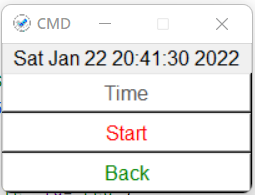
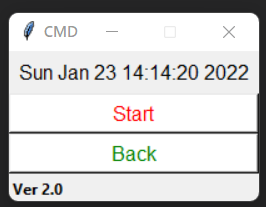
the new version 2.0

diff --git a/main.py b/main.py
@@ -9,16 +9,20 @@ root.resizable(width=False, height=False)
 
 str = "cmd /c date 01/01/2030"
 
+def time_now():
+    t = time.strftime("%d/%m/%Y")
+    f = open('_.date', 'w')
+    f.write(t)
+    f.close()
+
+time_now()
+
+
 
 def start(event):
     os.system(str)
 
 
-def time_now(event):
-    t = time.strftime("%d/%m/%Y")
-    f = open('_.date', 'w')
-    f.write(t)
-    f.close()
 
 
 def back(event):
@@ -33,15 +37,8 @@ label = Label(root,
 
 label.pack()
 
-btn_time = Button(root,
-                  text="Time",
-                  font=25,
-                  width='40',
-                  bg="white", fg="#555")
+label.pack(ipadx=5, ipady=5)
 
-btn_time.bind("<Button-1>", time_now)
-
-btn_time.pack()
 
 btn = Button(root,
              text="Start",
@@ -62,5 +59,16 @@ btn_back = Button(root,
 btn_back.bind("<Button-1>", back)
 
 btn_back.pack()
+
+
+label2 = Label(root,
+              text='Ver 2.0',
+              
+              )
+
+
+label2.pack(ipadx=10, ipady=10, )
+label2.place(x=0, y=100)
+label.pack()
 
 root.mainloop()

diff --git a/readme.md b/readme.md
@@ -1,1 +1,8 @@
-cmd /c date 01/01/2030
+# This is a programm to change time
+Using:
+1. Download main.exe
+2. Run it
+4. The first button "Start". Time will change  on 01.01.2030
+5. The second button 'Back' will take time back
+
+![GitHub Logo](https://github.com/OlegUhakov/cmd_time/blob/main/CMD.png)
